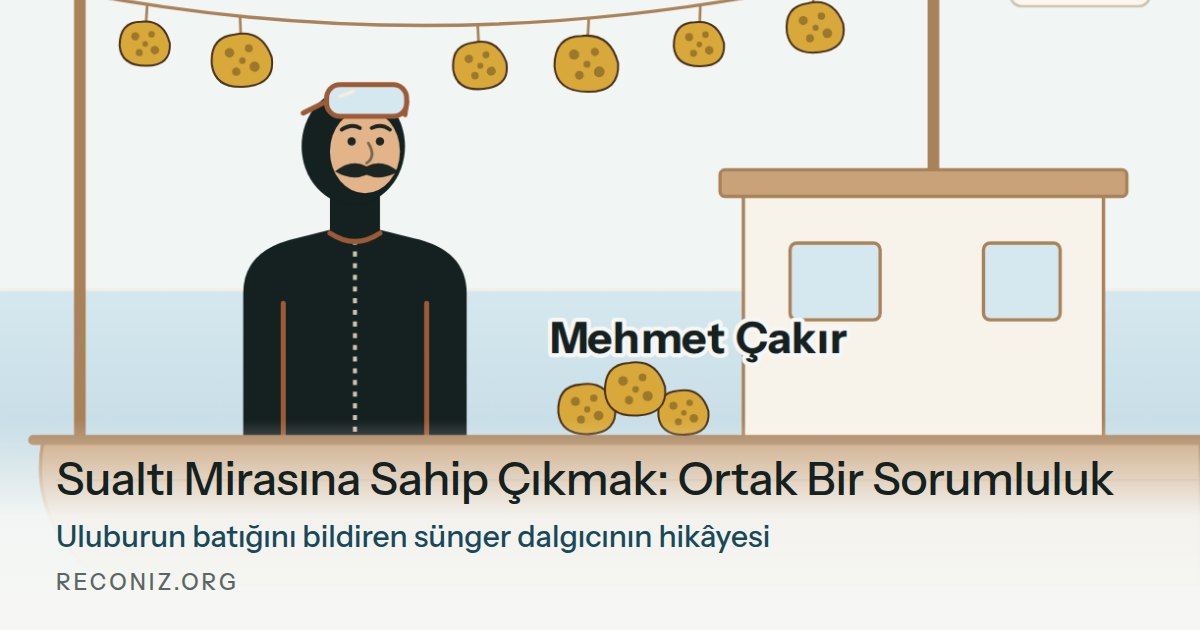
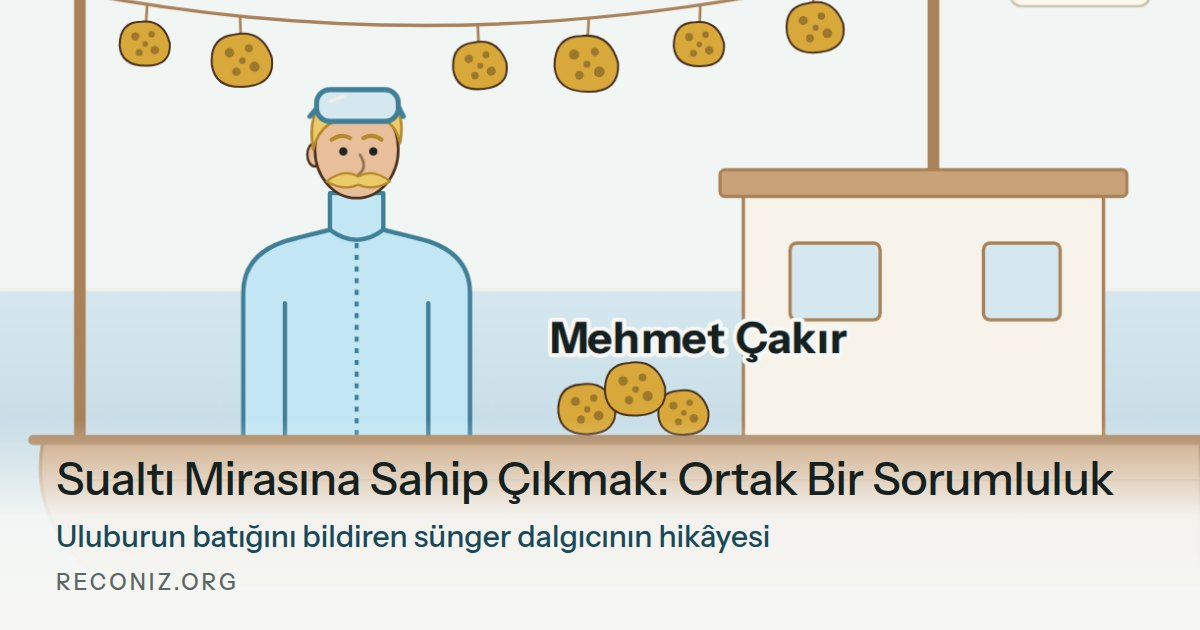
Uluburun: Mehmet Çakır sarışın, dalış elbisesi buz mavisi
Claude-Session: https://claude.ai/code/session_01KpGqkUWi5wxkv8FByy6VdA

Changed region(s): [[0.185, 0.1206, 0.4008, 0.6937]]

diff --git a/sorumluluk/index.html b/sorumluluk/index.html
@@ -267,7 +267,7 @@ sup a{color:inherit;text-decoration:none}
 @keyframes wig{from{transform:rotate(-7deg)}to{transform:rotate(7deg)}}
 @media (prefers-reduced-motion: reduce){ .wig{animation:none} .step p{transition:none} }
 /* Sualtı Mirasına Sahip Çıkmak: Ortak Bir Sorumluluk */
-:root{ --skin:#E3B48A; --paper:#FBF7EC; --gold:#D8A93A; --stone:#DDD6C6; }
+:root{ --skin:#E9BF9B; --suit:#C2E6F3; --suit-d:#3F7F97; --blond:#EBCB6A; --blond-d:#B58A2A; --paper:#FBF7EC; --gold:#D8A93A; --stone:#DDD6C6; }
 @media (prefers-color-scheme: dark){ :root:not([data-theme="light"]){ --paper:#2B2A24; --gold:#E0B64A; --stone:#7C7667; } }
 :root[data-theme="dark"]{ --paper:#2B2A24; --gold:#E0B64A; --stone:#7C7667; }
 </style>
@@ -572,18 +572,18 @@ const SC={waves:[],sc:[]}; const SURF=128, BED=372, GR=352;
   const deck=B=>{ el(B,"rect",{x:0,y:210,width:720,height:130,fill:"url(#wG)"}); el(B,"path",{d:"M0 210 H720",fill:"none",style:"stroke:var(--tube)","stroke-width":2,opacity:.8});
     el(B,"rect",{x:0,y:338,width:720,height:102,style:"fill:var(--wood)"}); for(let i=0;i<5;i++) el(B,"path",{d:`M0 ${358+i*20} H720`,fill:"none",style:"stroke:var(--wood-d)","stroke-width":1.2,opacity:.6}); el(B,"path",{d:"M0 338 H720",fill:"none",style:"stroke:var(--wood-d)","stroke-width":3}); };
   /* Mehmet Çakır: dalış elbiseli, bıyıklı; ayak ucu (0,0), sağa bakar, boy ~120 */
-  const cakir=(p,o)=>{ o=o||{}; const gg=el(p,"g",{});
-    el(gg,"path",{d:"M-10 0 L-8 -48 L0 -48 L-1 0Z M2 0 L1 -48 L9 -48 L12 0Z",style:INK});
-    el(gg,"path",{d:"M-13 -40 Q-17 -70 -11 -94 Q-6 -99 -5 -104 L7 -104 Q8 -98 11 -94 Q17 -70 14 -40Z",style:INK});
-    el(gg,"path",{d:"M-13.2 -46 Q-15.6 -70 -10.6 -92 M12.4 -92 Q16 -70 14 -46",fill:"none",style:"stroke:var(--clay)","stroke-width":1.7,"stroke-linecap":"round"});
-    el(gg,"path",{d:"M-9.6 -103 Q-11.4 -121.6 1.4 -121.6 Q12.6 -121.6 12 -108 L11 -101 Q1 -98 -9.6 -103Z",style:INK});
-    el(gg,"path",{d:"M3 -117.4 Q11 -118 11 -109.4 Q11 -102.4 6.2 -101.6 Q0.6 -102 0.4 -109 Q0.4 -114.6 3 -117.4Z",style:"fill:var(--skin)"});
-    el(gg,"circle",{cx:7.6,cy:-111.2,r:.95,style:"fill:#1d2522"}); el(gg,"path",{d:"M5.4 -113.4 q2.2 -1.2 4.4 -.2",fill:"none",style:"stroke:#1d2522","stroke-width":.7,"stroke-linecap":"round"});
-    el(gg,"path",{d:"M2.6 -106.6 Q7 -109.6 12.4 -105.6 Q7.6 -103.8 2.6 -106.6Z",style:"fill:#1d2522"});
-    gg.mask=el(gg,"g",{}); el(gg.mask,"path",{d:"M-9 -117 Q0 -122 11 -119",fill:"none",style:"stroke:var(--clay)","stroke-width":1.5}); el(gg.mask,"rect",{x:2.4,y:-122.4,width:10,height:5.8,rx:1.8,style:"fill:var(--water-a);stroke:var(--clay)","stroke-width":1.3});
-    gg.arm=el(gg,"path",{d:o.arm||"M3 -88 L8 -66 L12 -50",fill:"none",style:"stroke:var(--ink)","stroke-width":7.5,"stroke-linecap":"round","stroke-linejoin":"round"});
+  const cakir=(p,o)=>{ o=o||{}; const gg=el(p,"g",{}), SU="fill:var(--suit);stroke:var(--suit-d)", arm=o.arm||"M3 -88 L8 -66 L12 -50";
+    el(gg,"path",{d:"M-10 0 L-8 -48 L0 -48 L-1 0Z M2 0 L1 -48 L9 -48 L12 0Z",style:SU,"stroke-width":1,"stroke-linejoin":"round"});
+    el(gg,"path",{d:"M-13 -40 Q-17 -70 -11 -94 Q-6 -99 -5 -103 L7 -103 Q8 -98 11 -94 Q17 -70 14 -40Z",style:SU,"stroke-width":1,"stroke-linejoin":"round"});
+    el(gg,"circle",{cx:1,cy:-110,r:9.5,style:"fill:var(--skin);stroke:var(--cavity)","stroke-width":.6});
+    el(gg,"path",{d:"M-8.6 -110 Q-10.4 -121 1 -120.6 Q11.4 -121 10.6 -113.4 Q7 -117 0 -116.6 Q-6 -116 -8.6 -110Z",style:"fill:var(--blond);stroke:var(--blond-d)","stroke-width":.6,"stroke-linejoin":"round"});
+    el(gg,"circle",{cx:6.4,cy:-111,r:.95,style:"fill:#1d2522"});
+    el(gg,"path",{d:"M2 -106.4 Q6.6 -109.4 11.8 -105.4 Q7 -103.6 2 -106.4Z",style:"fill:var(--blond-d)"});
+    gg.mask=el(gg,"g",{}); el(gg.mask,"rect",{x:1,y:-121.6,width:10,height:5.4,rx:1.8,style:"fill:var(--water-a);stroke:var(--suit-d)","stroke-width":1.2});
+    el(gg,"path",{d:arm,fill:"none",style:"stroke:var(--suit-d)","stroke-width":9.2,"stroke-linecap":"round","stroke-linejoin":"round"});
+    gg.arm=el(gg,"path",{d:arm,fill:"none",style:"stroke:var(--suit)","stroke-width":7.2,"stroke-linecap":"round","stroke-linejoin":"round"});
     return gg; };
-  const dive=()=>{ const A=scene(); slope(A); A.sp=[170,244,384,414].map(x=>sponge(A,x)); mkPot(A,296,slY(296)-14,-58,1.7); A.ing=finds(A); sponge(A,330); A.rope=el(A,"path",{fill:"none",style:"stroke:var(--ink)","stroke-width":1.5,opacity:.7}); A.boat=boat(A); A.div=diver(A);
+  const dive=()=>{ const A=scene(); slope(A); A.sp=[170,244,384,414].map(x=>sponge(A,x)); mkPot(A,296,slY(296)-14,-58,1.7); A.ing=finds(A); sponge(A,330); A.rope=el(A,"path",{fill:"none",style:"stroke:var(--ink)","stroke-width":1.5,opacity:.7}); A.boat=boat(A); A.div=diver(A); [...A.div.children].forEach(c=>c.setAttribute("style","fill:var(--suit);stroke:var(--suit-d);stroke-width:1.1"));
     A.gl=[[240,-18],[280,-24],[318,-14]].map(([x,dy])=>star(A,x,slY(x)+dy,1)); A.c=yc(A,30,34,"1982"); return A; };
 
   /* ===== A · olağan dünya: teknenin kıçında Mehmet Çakır ve süngerler (0) ===== */
@@ -593,15 +593,16 @@ const SC={waves:[],sc:[]}; const SURF=128, BED=372, GR=352;
     el(A,"rect",{x:474,y:234,width:54,height:46,rx:4,style:"fill:var(--water-a);stroke:var(--wood-d)","stroke-width":2}); el(A,"rect",{x:590,y:234,width:46,height:46,rx:4,style:"fill:var(--water-a);stroke:var(--wood-d)","stroke-width":2});
     el(A,"path",{d:"M48 84 Q300 132 560 62",fill:"none",style:"stroke:var(--wood-d)","stroke-width":2});
     A.sps=[[.08,15],[.19,18],[.47,16],[.6,19],[.73,15],[.86,17]].map(([u,r])=>{ const x=48*(1-u)*(1-u)+600*u*(1-u)+560*u*u, y=84*(1-u)*(1-u)+264*u*(1-u)+62*u*u; return spg(A,x,y+r+9,r,9); });
-    { const D="fill:#1d2522", g=A.me=el(A,"g",{});
-      el(g,"path",{d:"M146 356 V264 Q146 238 178 231 L198 226 V204 H228 V226 L248 231 Q280 238 280 264 V356Z",style:INK});
-      el(g,"path",{d:"M170 356 V270 M256 356 V270",fill:"none",style:"stroke:var(--clay)","stroke-width":3,"stroke-linecap":"round"}); el(g,"path",{d:"M213 232 V356",fill:"none",style:"stroke:var(--tube-l)","stroke-width":2.4,"stroke-dasharray":"3 4"});
-      el(g,"path",{d:"M198 228 Q213 238 228 228",fill:"none",style:"stroke:var(--clay)","stroke-width":3,"stroke-linecap":"round"});
-      el(g,"ellipse",{cx:212,cy:176,rx:31,ry:35,style:INK}); el(g,"ellipse",{cx:219,cy:179,rx:21,ry:25,style:"fill:var(--skin)"});
-      el(g,"circle",{cx:211,cy:173,r:2.5,style:D}); el(g,"circle",{cx:228,cy:173,r:2.5,style:D}); el(g,"path",{d:"M205 166 q6 -4 11 -1 M223 165 q6 -3 11 1",fill:"none",style:"stroke:#1d2522","stroke-width":2.2,"stroke-linecap":"round"});
-      el(g,"path",{d:"M221 174 q5 8 -1 12",fill:"none",style:"stroke:#1d2522","stroke-width":1.6,"stroke-linecap":"round",opacity:.55});
-      el(g,"path",{d:"M201 191 Q211 183 220 188 Q229 183 239 191 Q229 197 220 193 Q211 197 201 191Z",style:D});
-      g.mask=el(g,"g",{}); el(g.mask,"path",{d:"M196 149 L182 156 M244 149 L243 157",fill:"none",style:"stroke:var(--clay)","stroke-width":3,"stroke-linecap":"round"}); el(g.mask,"rect",{x:196,y:139,width:48,height:19,rx:8,style:"fill:var(--water-a);stroke:var(--clay)","stroke-width":3}); el(g.mask,"path",{d:"M204 146 l8 -3",fill:"none",style:"stroke:var(--tube)","stroke-width":2,"stroke-linecap":"round"}); }
+    { const D="fill:#1d2522", SD="stroke:var(--suit-d)", g=A.me=el(A,"g",{});
+      el(g,"path",{d:"M146 356 V264 Q146 238 178 231 L198 226 V204 H230 V226 L250 231 Q282 238 282 264 V356Z",style:"fill:var(--suit);"+SD,"stroke-width":2.6,"stroke-linejoin":"round"});
+      el(g,"path",{d:"M171 356 V270 M257 356 V270 M198 226 Q214 238 230 226",fill:"none",style:SD,"stroke-width":2.6,"stroke-linecap":"round"}); el(g,"path",{d:"M214 234 V356",fill:"none",style:SD,"stroke-width":2.4,"stroke-dasharray":"3 4"});
+      el(g,"ellipse",{cx:189,cy:181,rx:4.6,ry:7,style:"fill:var(--skin);stroke:var(--cavity)","stroke-width":1.4});
+      el(g,"ellipse",{cx:214,cy:178,rx:25,ry:29,style:"fill:var(--skin);stroke:var(--cavity)","stroke-width":1.6});
+      el(g,"path",{d:"M188 178 Q182 144 214 142 Q246 144 240 174 Q237 161 227 159 Q209 156 197 163 Q190 168 188 178Z",style:"fill:var(--blond);stroke:var(--blond-d)","stroke-width":1.6,"stroke-linejoin":"round"});
+      el(g,"circle",{cx:206,cy:179,r:2.5,style:D}); el(g,"circle",{cx:224,cy:179,r:2.5,style:D}); el(g,"path",{d:"M199 172 q6 -4 11 -1 M218 171 q6 -3 11 1",fill:"none",style:"stroke:var(--blond-d)","stroke-width":2.4,"stroke-linecap":"round"});
+      el(g,"path",{d:"M216 181 q5 8 -1 12",fill:"none",style:"stroke:var(--cavity)","stroke-width":1.6,"stroke-linecap":"round",opacity:.55});
+      el(g,"path",{d:"M196 197 Q206 189 215 194 Q224 189 234 197 Q224 203 215 199 Q206 203 196 197Z",style:"fill:var(--blond);stroke:var(--blond-d)","stroke-width":1.4,"stroke-linejoin":"round"});
+      g.mask=el(g,"g",{}); el(g.mask,"path",{d:"M191 152 L186 158 M239 152 L242 158",fill:"none",style:SD,"stroke-width":3,"stroke-linecap":"round"}); el(g.mask,"rect",{x:190,y:142,width:49,height:19,rx:8,style:"fill:var(--water-a);"+SD,"stroke-width":3}); el(g.mask,"path",{d:"M198 149 l8 -3",fill:"none",style:"stroke:var(--tube)","stroke-width":2,"stroke-linecap":"round"}); }
     el(A,"path",{d:"M26 352 Q16 404 66 440 H720 V352Z",style:"fill:var(--wood);stroke:var(--wood-d)","stroke-width":2}); el(A,"path",{d:"M20 352 H720",fill:"none",style:"stroke:var(--wood-d)","stroke-width":6,"stroke-linecap":"round"});
     for(let i=0;i<3;i++) el(A,"path",{d:`M${34+i*12} ${376+i*22} H720`,fill:"none",style:"stroke:var(--wood-d)","stroke-width":1.3,opacity:.55});
     spg(A,352,334,17); spg(A,410,336,15); spg(A,381,322,18);
@@ -682,7 +683,7 @@ function draw(p){ P=p; const t=IDLE, bob=Math.sin(t*1.3)*2.5;
   SC.sc.forEach((g,i)=>{ const a=START[i], b=START[i+1], o=i===0?1:seg(p,a-.04,a+.14), hide=o<=0||(b!==undefined&&p>b+.16); g.style.display=hide?"none":""; g.setAttribute("opacity",o); g.on=!hide; });
   let wv="M0 "+SURF; for(let x=40;x<=720;x+=40) wv+=` Q${x-20} ${(SURF+Math.sin(x*0.05+t*1.6)*3).toFixed(1)} ${x} ${SURF}`; for(const w of SC.waves) w.setAttribute("d",wv);
   const {A,N,C,B,D,E,F,G,H,I,L}=SC;
-  if(A.on){ drop(A.c,p,.05); A.nm.setAttribute("opacity",seg(p,.12,.3)); A.me.mask.setAttribute("transform",`translate(0 ${(25*ease(seg(p,.62,.82))).toFixed(2)})`);
+  if(A.on){ drop(A.c,p,.05); A.nm.setAttribute("opacity",seg(p,.12,.3)); A.me.mask.setAttribute("transform",`translate(0 ${(28*ease(seg(p,.62,.82))).toFixed(2)})`);
     A.sps.forEach((g,i)=>g.setAttribute("transform",`rotate(${(Math.sin(t*1.1+i*1.7)*4).toFixed(1)} ${g.x.toFixed(1)} ${g.y0.toFixed(1)})`)); }
   if(N.on){ N.p.forEach((c,i)=>c.setAttribute("stroke-dashoffset",(c.L*(1-ease(seg(p,1.12+i*.2,1.36+i*.2)))).toFixed(1)));
     const pt=seg(p,1.1,1.3); N.a.arm.setAttribute("d",`M3 -88 L${lerp(8,22,pt).toFixed(1)} ${lerp(-66,-82,pt).toFixed(1)} L${lerp(12,42,pt).toFixed(1)} ${lerp(-50,-90,pt).toFixed(1)}`); }

diff --git a/sw.js b/sw.js
@@ -1,5 +1,5 @@
 // RecOniz service worker: çevrimdışı çalışma için uygulama, model ve kütüphaneler önbellekte tutulur
-const C='reconiz-v35';
+const C='reconiz-v36';
 const CORE=['/','/rejoiner/','/coins/','/onem/','/teredo/','/koruma/','/sorumluluk/','/coins/data.json','/coins/model.json','/manifest.webmanifest','/icon-192.png','/icon-512.png','/icon-maskable-512.png','/apple-touch-icon.png','/favicon.svg','/favicon-32.png','/ml/ort.wasm.min.js','/ml/three.min.js','/ml/ort-wasm-simd.wasm','/ml/ort-wasm.wasm','/ml/u2netp.onnx.b64.txt'];
 self.addEventListener('install',e=>{e.waitUntil(caches.open(C).then(c=>c.addAll(CORE)).then(()=>self.skipWaiting()));});
 self.addEventListener('activate',e=>{e.waitUntil(caches.keys().then(ks=>Promise.all(ks.filter(k=>k!==C).map(k=>caches.delete(k)))).then(()=>self.clients.claim()));});
